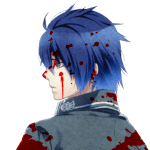
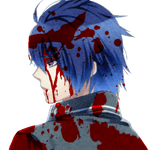
_

diff --git a/YGGDRASIL/NOMAL/202406imigo/00W_imigo/00W_imigo.html b/YGGDRASIL/NOMAL/202406imigo/00W_imigo/00W_imigo.html
@@ -12124,7 +12124,7 @@
 </tr>
 <tr valign="top" class="tab1">
 <td align="right" width="auto"><span class="tabname">会場</span></td>
-<td align="center" width="auto"><img class="icon" onerror="this.remove()" src="img/37c71459b9444ea88d7e58686bd9b82829ff05d95b4ec35e2eb82962b7eb5db7.jpg"><img class="icon" onerror="this.remove()" src="img/37c71459b9444ea88d7e58686bd9b82829ff05d95b4ec35e2eb82962b7eb5db7.gif"><img class="icon" onerror="this.remove()" src="img/37c71459b9444ea88d7e58686bd9b82829ff05d95b4ec35e2eb82962b7eb5db7.png"></td>
+<td align="center" width="auto"><img class="icon" onerror="this.remove()" src="img/17blood.jpg"><img class="icon" onerror="this.remove()" src="img/17blood.gif"><img class="icon" onerror="this.remove()" src="img/17blood.png"></td>
 <td align="left">
 <div class="name" style="color:#000080">八神 御法</div>
 <div class="maintext" style="color:#000080">――瞼を下ろします＠</div>
@@ -12148,7 +12148,7 @@
 </tr>
 <tr valign="top" class="tab1">
 <td align="right" width="auto"><span class="tabname">会場</span></td>
-<td align="center" width="auto"><img class="icon" onerror="this.remove()" src="img/37c71459b9444ea88d7e58686bd9b82829ff05d95b4ec35e2eb82962b7eb5db7.jpg"><img class="icon" onerror="this.remove()" src="img/37c71459b9444ea88d7e58686bd9b82829ff05d95b4ec35e2eb82962b7eb5db7.gif"><img class="icon" onerror="this.remove()" src="img/37c71459b9444ea88d7e58686bd9b82829ff05d95b4ec35e2eb82962b7eb5db7.png"></td>
+<td align="center" width="auto"><img class="icon" onerror="this.remove()" src="img/17blood.jpg"><img class="icon" onerror="this.remove()" src="img/17blood.gif"><img class="icon" onerror="this.remove()" src="img/17blood.png"></td>
 <td align="left">
 <div class="name" style="color:#000080">八神 御法</div>
 <div class="maintext" style="color:#000080">俺の因子はもう……3Rdしかないんだ……</div>
@@ -12172,7 +12172,7 @@
 </tr>
 <tr valign="top" class="tab1">
 <td align="right" width="auto"><span class="tabname">会場</span></td>
-<td align="center" width="auto"><img class="icon" onerror="this.remove()" src="img/37c71459b9444ea88d7e58686bd9b82829ff05d95b4ec35e2eb82962b7eb5db7.jpg"><img class="icon" onerror="this.remove()" src="img/37c71459b9444ea88d7e58686bd9b82829ff05d95b4ec35e2eb82962b7eb5db7.gif"><img class="icon" onerror="this.remove()" src="img/37c71459b9444ea88d7e58686bd9b82829ff05d95b4ec35e2eb82962b7eb5db7.png"></td>
+<td align="center" width="auto"><img class="icon" onerror="this.remove()" src="img/17blood.jpg"><img class="icon" onerror="this.remove()" src="img/17blood.gif"><img class="icon" onerror="this.remove()" src="img/17blood.png"></td>
 <td align="left">
 <div class="name" style="color:#000080">八神 御法</div>
 <div class="maintext" style="color:#000080">復活Bをしたら因子がマイナスに突っ込んでしまうだろう</div>
@@ -12372,7 +12372,7 @@
 </tr>
 <tr valign="top" class="tab1">
 <td align="right" width="auto"><span class="tabname">会場</span></td>
-<td align="center" width="auto"><img class="icon" onerror="this.remove()" src="img/37c71459b9444ea88d7e58686bd9b82829ff05d95b4ec35e2eb82962b7eb5db7.jpg"><img class="icon" onerror="this.remove()" src="img/37c71459b9444ea88d7e58686bd9b82829ff05d95b4ec35e2eb82962b7eb5db7.gif"><img class="icon" onerror="this.remove()" src="img/37c71459b9444ea88d7e58686bd9b82829ff05d95b4ec35e2eb82962b7eb5db7.png"></td>
+<td align="center" width="auto"><img class="icon" onerror="this.remove()" src="img/12blood.jpg"><img class="icon" onerror="this.remove()" src="img/12blood.gif"><img class="icon" onerror="this.remove()" src="img/12blood.png"></td>
 <td align="left">
 <div class="name" style="color:#000080">八神 御法</div>
 <div class="maintext" style="color:#000080">以前あなたが会った時より随分安らかな顔をしているように見えます。<br>自らを戒めていた、重荷を下ろしたかのように。＠</div>
@@ -12396,7 +12396,7 @@
 </tr>
 <tr valign="top" class="tab1">
 <td align="right" width="auto"><span class="tabname">会場</span></td>
-<td align="center" width="auto"><img class="icon" onerror="this.remove()" src="img/37c71459b9444ea88d7e58686bd9b82829ff05d95b4ec35e2eb82962b7eb5db7.jpg"><img class="icon" onerror="this.remove()" src="img/37c71459b9444ea88d7e58686bd9b82829ff05d95b4ec35e2eb82962b7eb5db7.gif"><img class="icon" onerror="this.remove()" src="img/37c71459b9444ea88d7e58686bd9b82829ff05d95b4ec35e2eb82962b7eb5db7.png"></td>
+<td align="center" width="auto"><img class="icon" onerror="this.remove()" src="img/12blood.jpg"><img class="icon" onerror="this.remove()" src="img/12blood.gif"><img class="icon" onerror="this.remove()" src="img/12blood.png"></td>
 <td align="left">
 <div class="name" style="color:#000080">八神 御法</div>
 <div class="maintext" style="color:#000080">――――――<br>――――<br>――</div>
